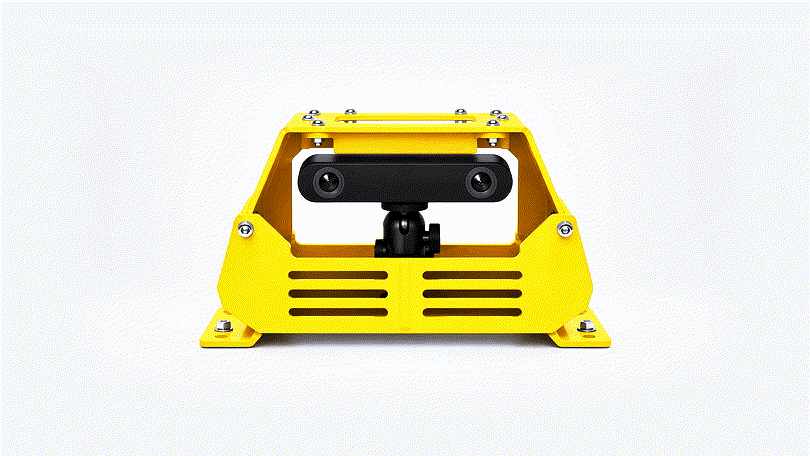
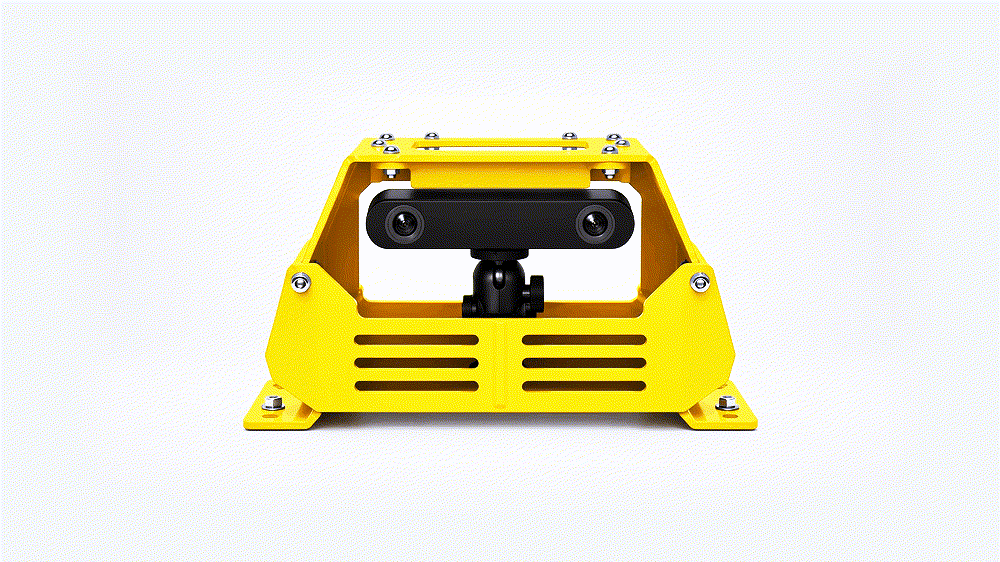
product: larger ping-pong hero GIF that reverses after assembly

diff --git a/app/product/page.tsx b/app/product/page.tsx
@@ -57,7 +57,7 @@ export default function ProductPage() {
 
       {/* Hero */}
       <Section tone="light" spacing="lg" aria-labelledby="product-heading">
-        <div className="grid items-center gap-12 lg:grid-cols-2">
+        <div className="grid items-center gap-8 lg:grid-cols-[minmax(0,1fr)_minmax(0,1.45fr)]">
           <div>
             <p className="kicker">Dozer AI · The product</p>
             <h1
@@ -89,9 +89,9 @@ export default function ProductPage() {
             {/* eslint-disable-next-line @next/next/no-img-element -- animated GIF, served as-is */}
             <img
               src="/product-camera/camera-assembly.gif"
-              alt="The Dozer camera housing assembling around the depth camera, piece by piece."
-              width={810}
-              height={456}
+              alt="The Dozer camera housing assembling around the depth camera piece by piece, then coming apart again."
+              width={1000}
+              height={562}
               className="block h-auto w-full"
             />
           </picture>
